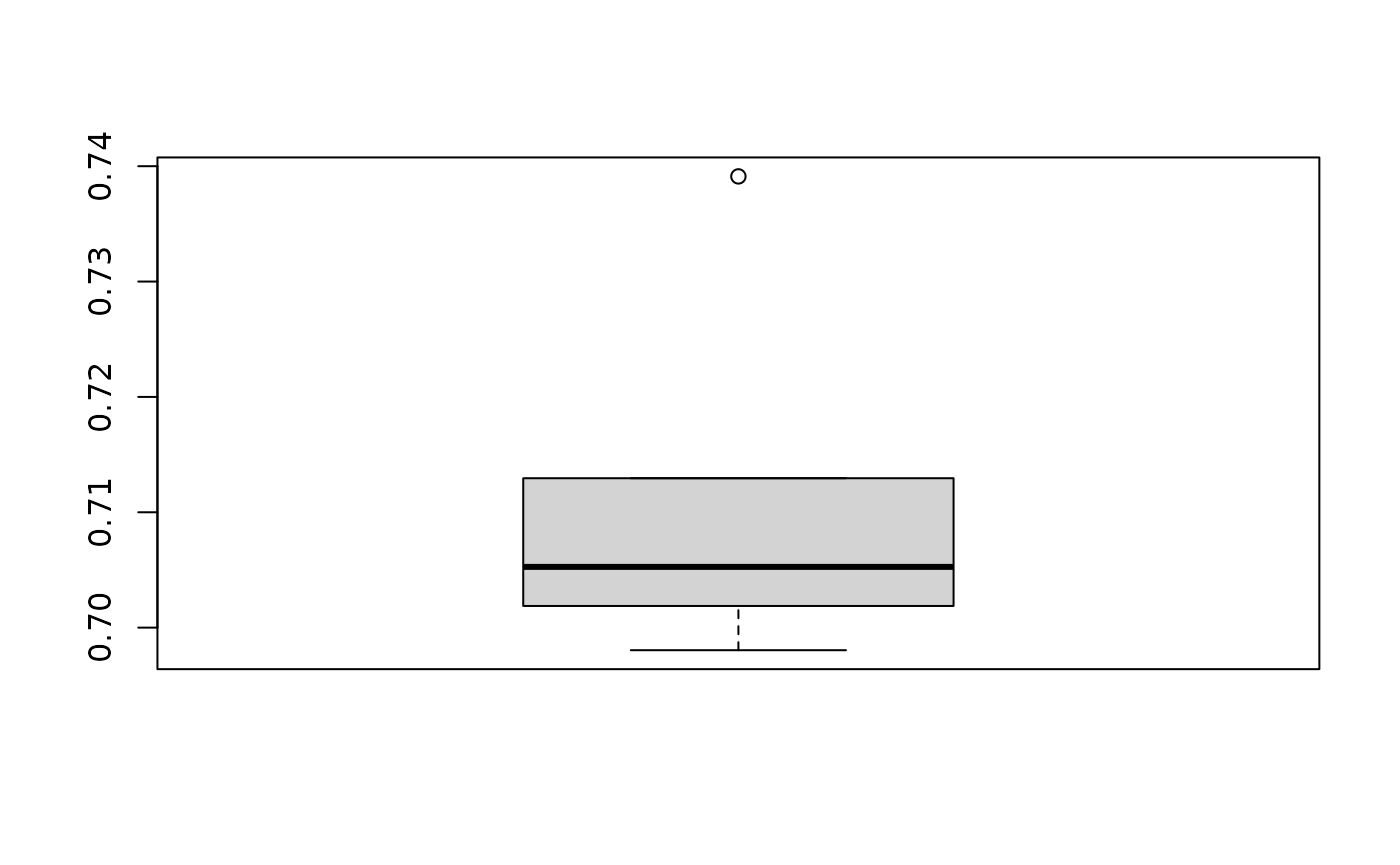
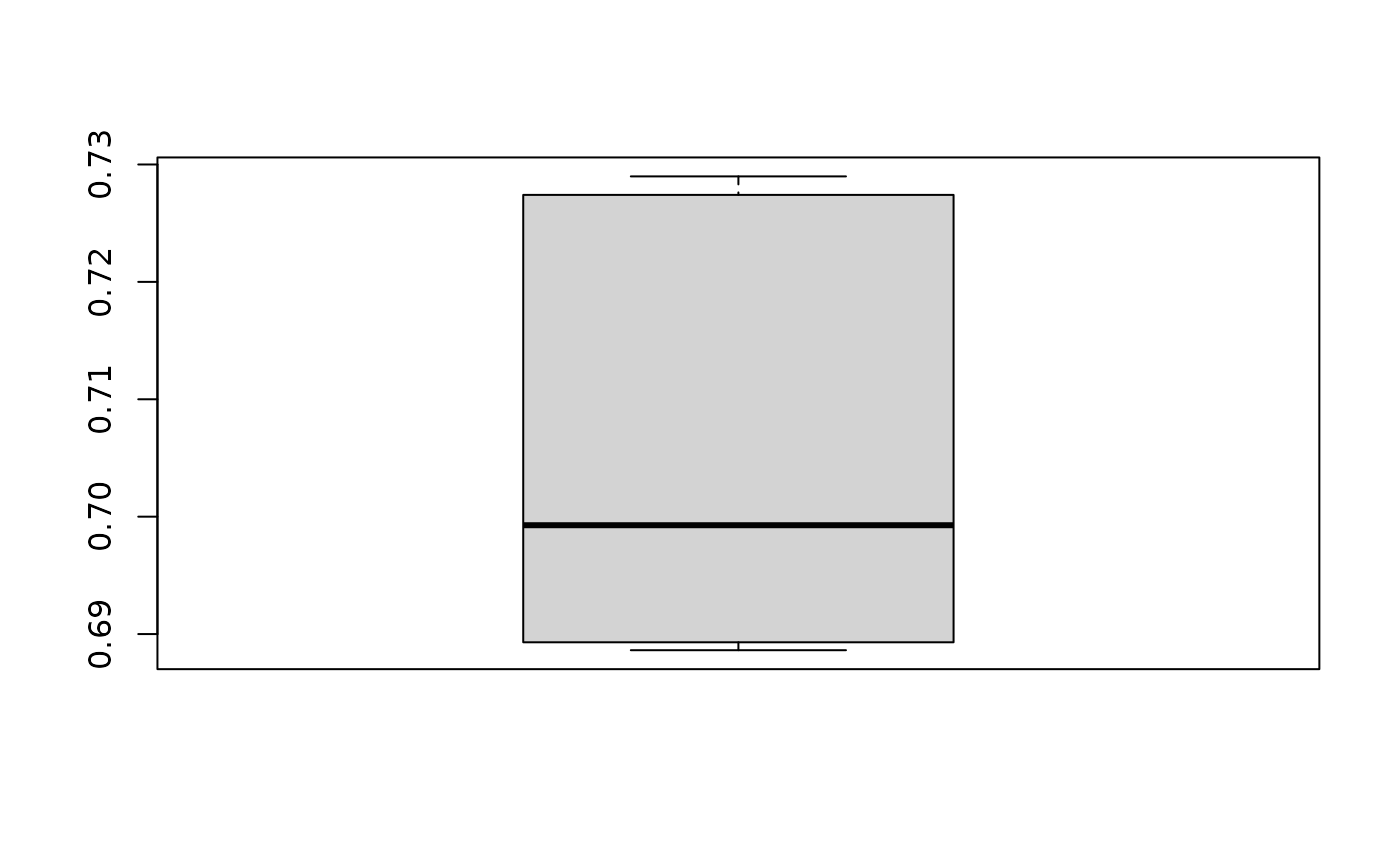
Deploying to gh-pages from @ SydneyBioX/BenchHub@c6c2bcfd71db888097c098cce053079440f95da9 🚀

diff --git a/articles/v02_Evaluation_using_Trio.html b/articles/v02_Evaluation_using_Trio.html
@@ -246,11 +246,11 @@ averaging results across folds within each repeats.</p>
 <span><span class="co">## <span style="color: #949494;"># Groups:   datasetID, method, auxData, metric [1]</span></span></span>
 <span><span class="co">##   datasetID           method auxData        metric            repeats result</span></span>
 <span><span class="co">##   <span style="color: #949494; font-style: italic;">&lt;chr&gt;</span>               <span style="color: #949494; font-style: italic;">&lt;chr&gt;</span>  <span style="color: #949494; font-style: italic;">&lt;chr&gt;</span>          <span style="color: #949494; font-style: italic;">&lt;chr&gt;</span>             <span style="color: #949494; font-style: italic;">&lt;chr&gt;</span>    <span style="color: #949494; font-style: italic;">&lt;dbl&gt;</span></span></span>
-<span><span class="co">## <span style="color: #BCBCBC;">1</span> lubomski_microbiome lasso  patient_status Balanced Accuracy Rep1     0.702</span></span>
-<span><span class="co">## <span style="color: #BCBCBC;">2</span> lubomski_microbiome lasso  patient_status Balanced Accuracy Rep2     0.739</span></span>
-<span><span class="co">## <span style="color: #BCBCBC;">3</span> lubomski_microbiome lasso  patient_status Balanced Accuracy Rep3     0.705</span></span>
-<span><span class="co">## <span style="color: #BCBCBC;">4</span> lubomski_microbiome lasso  patient_status Balanced Accuracy Rep4     0.713</span></span>
-<span><span class="co">## <span style="color: #BCBCBC;">5</span> lubomski_microbiome lasso  patient_status Balanced Accuracy Rep5     0.698</span></span></code></pre>
+<span><span class="co">## <span style="color: #BCBCBC;">1</span> lubomski_microbiome lasso  patient_status Balanced Accuracy Rep1     0.689</span></span>
+<span><span class="co">## <span style="color: #BCBCBC;">2</span> lubomski_microbiome lasso  patient_status Balanced Accuracy Rep2     0.727</span></span>
+<span><span class="co">## <span style="color: #BCBCBC;">3</span> lubomski_microbiome lasso  patient_status Balanced Accuracy Rep3     0.689</span></span>
+<span><span class="co">## <span style="color: #BCBCBC;">4</span> lubomski_microbiome lasso  patient_status Balanced Accuracy Rep4     0.729</span></span>
+<span><span class="co">## <span style="color: #BCBCBC;">5</span> lubomski_microbiome lasso  patient_status Balanced Accuracy Rep5     0.699</span></span></code></pre>
 </div>
 </div>
 <div class="section level2">
@@ -338,7 +338,7 @@ and that there is one row for each result.</p>
 <span><span class="co">## <span style="color: #949494;"># Groups:   datasetID, method, auxData [2]</span></span></span>
 <span><span class="co">##   datasetID           method            auxData        metric            result</span></span>
 <span><span class="co">##   <span style="color: #949494; font-style: italic;">&lt;chr&gt;</span>               <span style="color: #949494; font-style: italic;">&lt;chr&gt;</span>             <span style="color: #949494; font-style: italic;">&lt;chr&gt;</span>          <span style="color: #949494; font-style: italic;">&lt;chr&gt;</span>              <span style="color: #949494; font-style: italic;">&lt;dbl&gt;</span></span></span>
-<span><span class="co">## <span style="color: #BCBCBC;">1</span> lubomski_microbiome lasso             patient_status Balanced Accuracy  0.711</span></span>
+<span><span class="co">## <span style="color: #BCBCBC;">1</span> lubomski_microbiome lasso             patient_status Balanced Accuracy  0.707</span></span>
 <span><span class="co">## <span style="color: #BCBCBC;">2</span> lubomski_microbiome negative_binomial Sparsity       Difference         0.323</span></span></code></pre>
 <p>Please see Vignette xxxxx for the details on the visualisations and
 functions in BenchmarkInsights.</p>

diff --git a/articles/v01_intro_trio.html b/articles/v01_intro_trio.html
@@ -124,7 +124,7 @@ dataset.</p>
 <span><span class="co">##   ... (truncated)</span></span>
 <span><span class="co">## <span style="font-weight: bold;">Data Source</span>: <span style="color: #0000BB;">"figshare"</span></span></span>
 <span><span class="co">## <span style="font-weight: bold;">Dataset ID</span>: <span style="color: #0000BB;">"26142922/47361073"</span></span></span>
-<span><span class="co">## <span style="font-weight: bold;">Cache Path</span>: <span style="color: #0000BB;">"/tmp/RtmpqDVC22"</span></span></span>
+<span><span class="co">## <span style="font-weight: bold;">Cache Path</span>: <span style="color: #0000BB;">"/tmp/RtmpDYeaqz"</span></span></span>
 <span><span class="co">## <span style="font-weight: bold;">Split Indices</span>: <span style="color: #0000BB;">"None"</span></span></span>
 <span><span class="co">## </span></span>
 <span><span class="co">## ── Auxilliary Data </span></span>
@@ -192,7 +192,7 @@ dataset with a <code>fileID</code>.</p>
 <span><span class="co">##   ... (truncated)</span></span>
 <span><span class="co">## <span style="font-weight: bold;">Data Source</span>: <span style="color: #0000BB;">"figshare"</span></span></span>
 <span><span class="co">## <span style="font-weight: bold;">Dataset ID</span>: <span style="color: #0000BB;">"26142922/47361079"</span></span></span>
-<span><span class="co">## <span style="font-weight: bold;">Cache Path</span>: <span style="color: #0000BB;">"/tmp/RtmpqDVC22"</span></span></span>
+<span><span class="co">## <span style="font-weight: bold;">Cache Path</span>: <span style="color: #0000BB;">"/tmp/RtmpDYeaqz"</span></span></span>
 <span><span class="co">## <span style="font-weight: bold;">Split Indices</span>: <span style="color: #0000BB;">"None"</span></span></span>
 <span><span class="co">## </span></span>
 <span><span class="co">## ── Auxilliary Data </span></span>
@@ -296,7 +296,7 @@ metric function with the specified arguments.</p>
 <span><span class="co">## {</span></span>
 <span><span class="co">##     do.call(metric, append(list(auxData, to_eval), args))</span></span>
 <span><span class="co">## }</span></span>
-<span><span class="co">## &lt;environment: 0x56515673f868&gt;</span></span></code></pre>
+<span><span class="co">## &lt;environment: 0x5635d788c4b0&gt;</span></span></code></pre>
 </div>
 <div class="section level3">
 <h3 id="adding-and-getting-auxdata">Adding and getting <code>auxData</code><a class="anchor" aria-label="anchor" href="#adding-and-getting-auxdata"></a>
